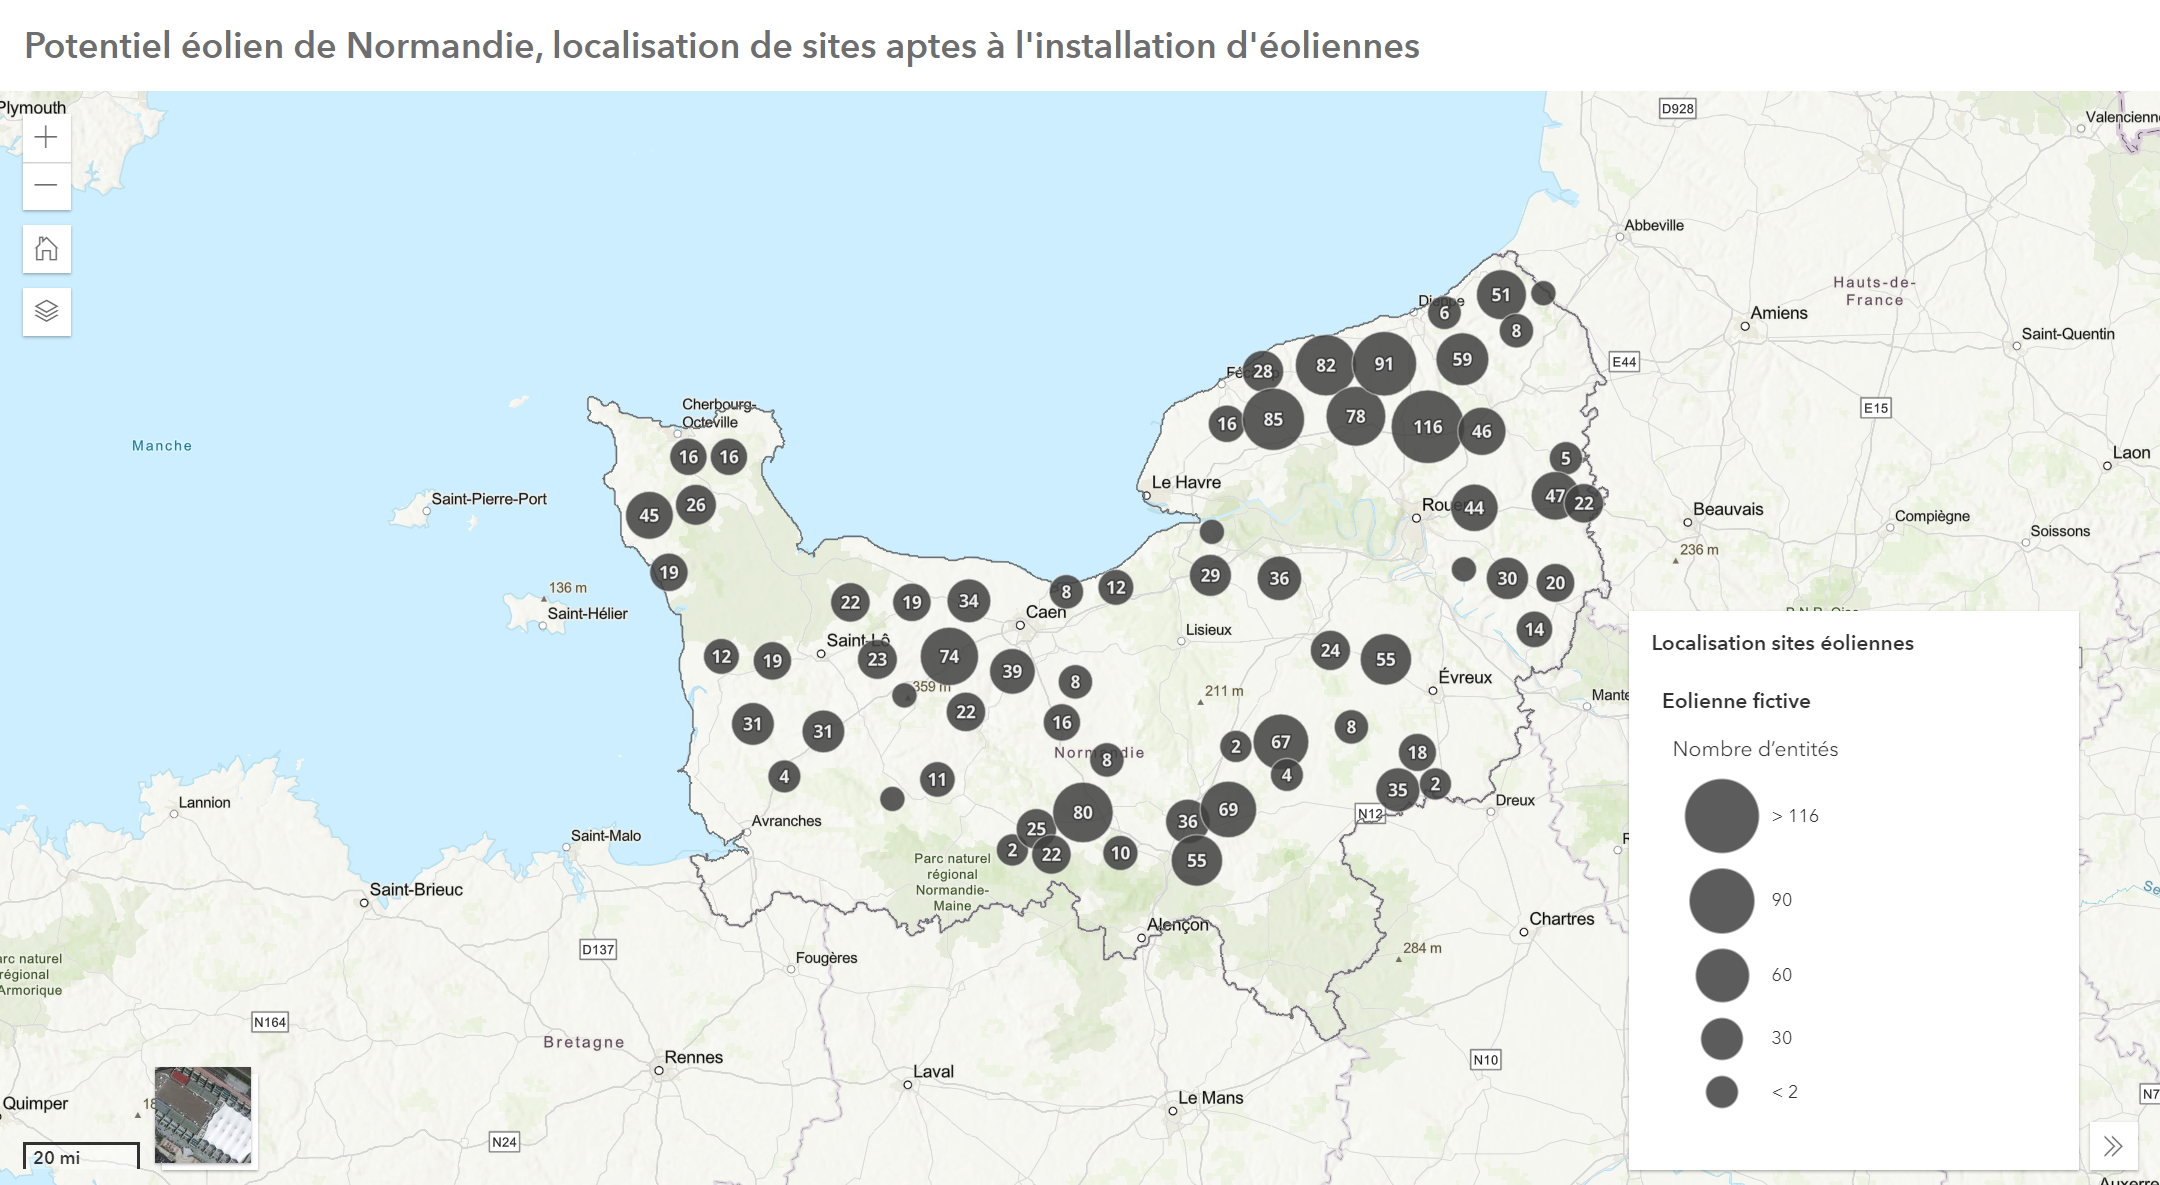
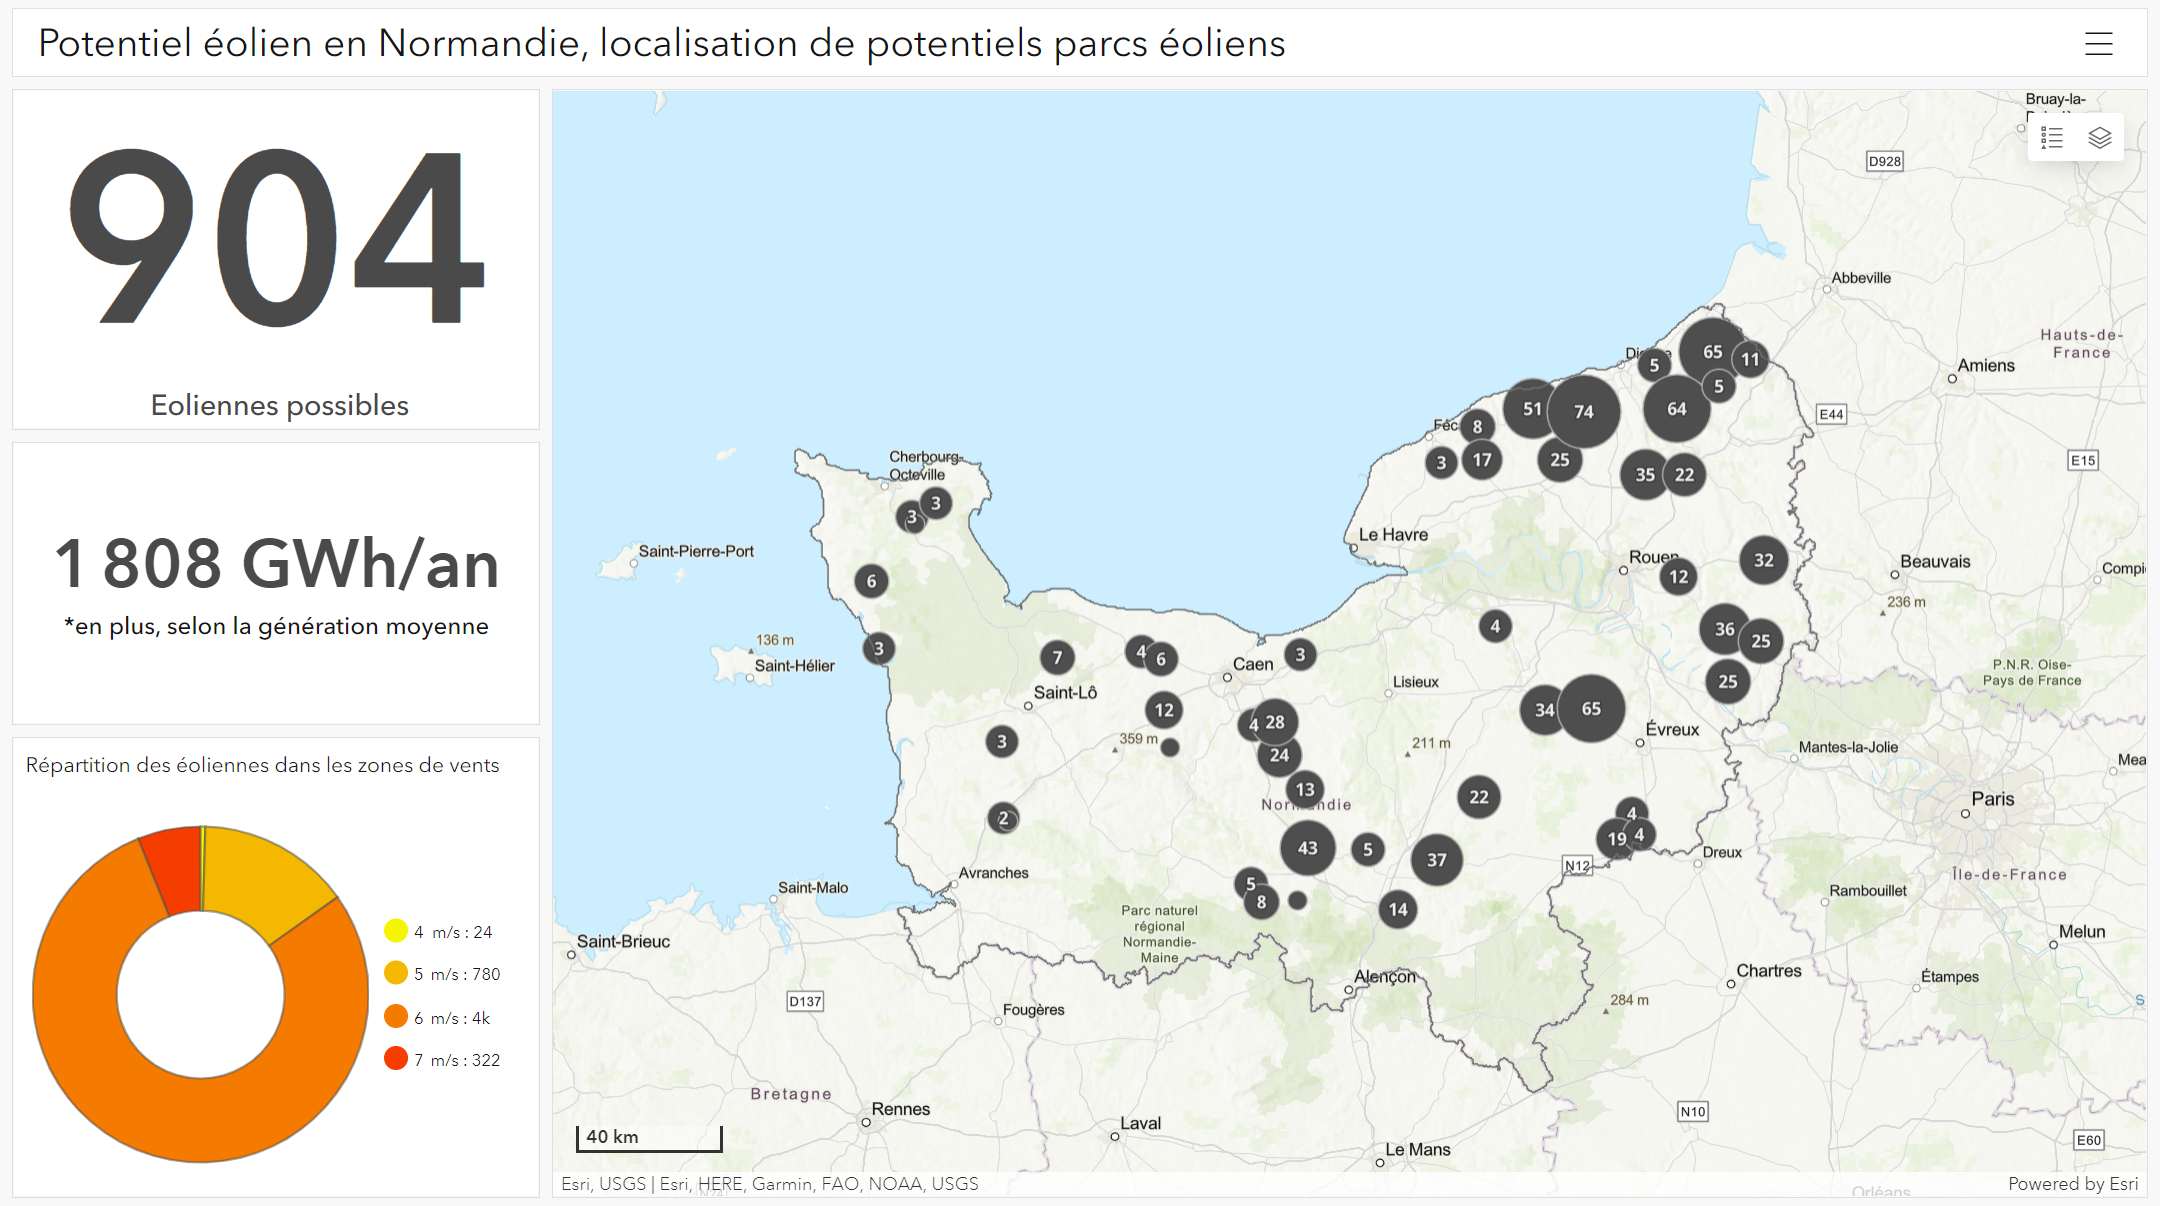
eol

diff --git a/map.html b/map.html
@@ -100,7 +100,7 @@
 						<li>Se situe dans les communes de moins de 1000 habitants.</li>
 						<li>Ne se situe pas dans les zones d'exclusion (PNR, , aéroports, routes départementales, bâti etc....).</li>	
 					</ul>
-					<a href="https://fcosse.maps.arcgis.com/apps/instant/basic/index.html?appid=f13ff62f36494612b32b80be95c88361" target="_blank">
+					<a href="https://fcosse.maps.arcgis.com/apps/dashboards/0498e244bff14b7b886ad2c0d6d5ac5c" target="_blank">
 						<div class="card">
 						   <img class="img-fluid" src="imagr/ESRI2.png"  style="border-bottom:0px" alt="">
 						   <div class="card-block">
